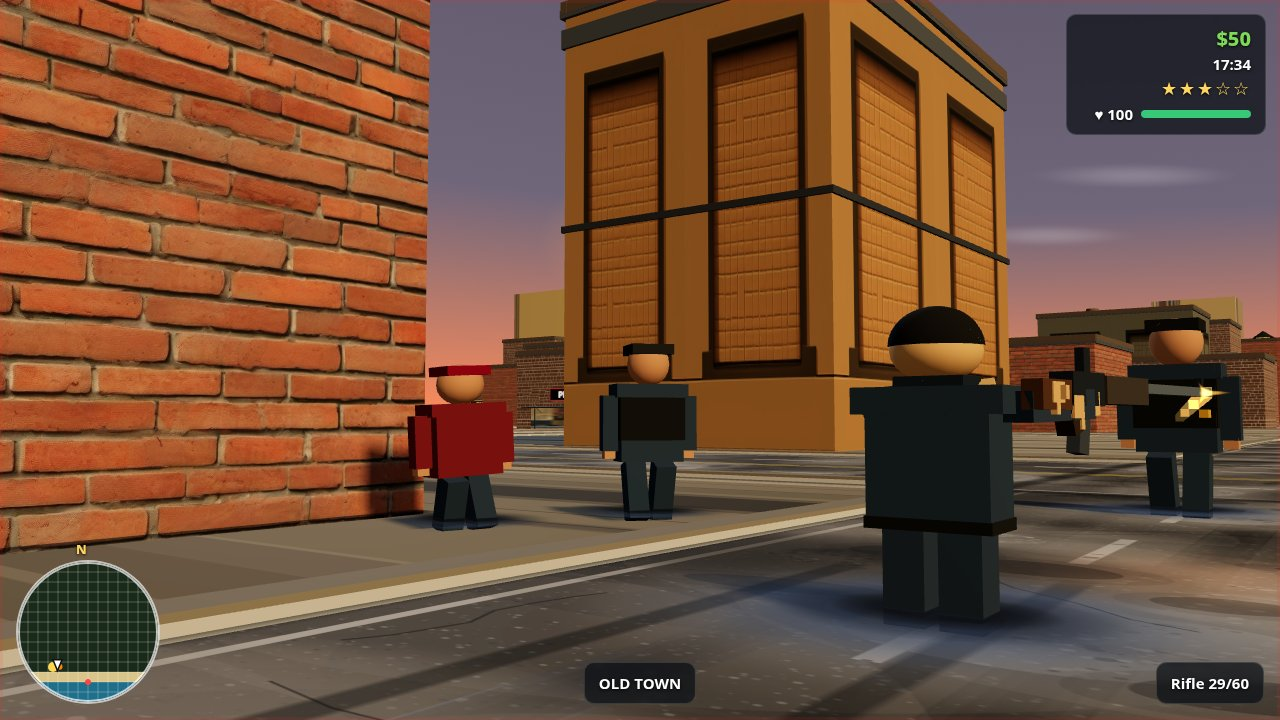
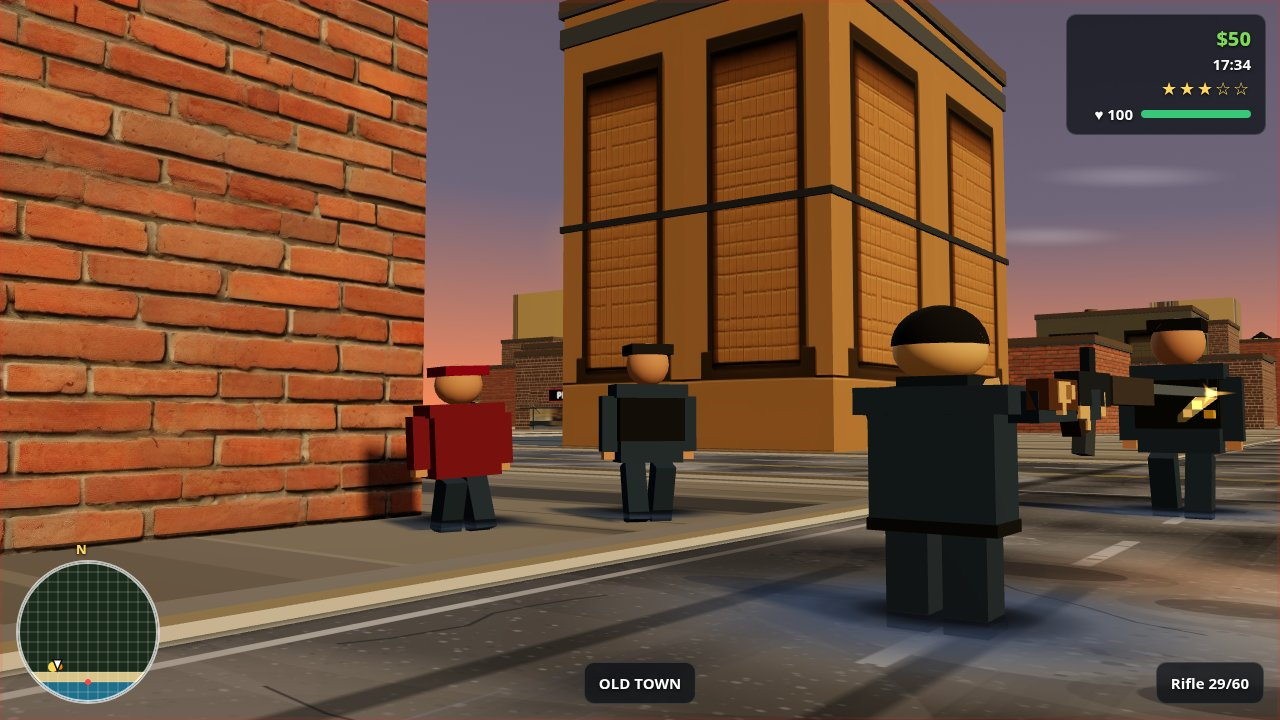
v60.1: pull back near-figure foot contact (Superbot re-verification) — player core 1.05x0.85, band 1.6x1.3

diff --git a/game/src/shots.js b/game/src/shots.js
@@ -1128,8 +1128,14 @@ function contactPass(game) {
   }
   if (game.player && game.player.mesh && game.player.mesh.visible
     && !(game.player.car) && game.player.pos) {
-    contactCore(game, game.player.pos.x, game.player.pos.z, 1.3, 1.0, 0.70);
-    contactBand(game, game.player.pos.x, game.player.pos.z, 2.0, 1.6, 0.42);
+    // v60.1: Superbot re-verification — the near (player) figure's
+    // contact read as a pit, not a shadow: 1.3 m core + 2.0 m band
+    // are ~2x the figure's width and spill down-right of the feet.
+    // Pull the player's foot contact back between v59.1 and v60
+    // (core 1.05x0.85, band 1.6x1.3, same opacities); peds and
+    // enemies keep the v60 sizes (their shadows were approved).
+    contactCore(game, game.player.pos.x, game.player.pos.z, 1.05, 0.85, 0.70);
+    contactBand(game, game.player.pos.x, game.player.pos.z, 1.6, 1.3, 0.42);
   }
   // Kerb bases: a dark band along the kerb where it meets the road
   // and where it meets the sidewalk, on the roads nearest the focus.
